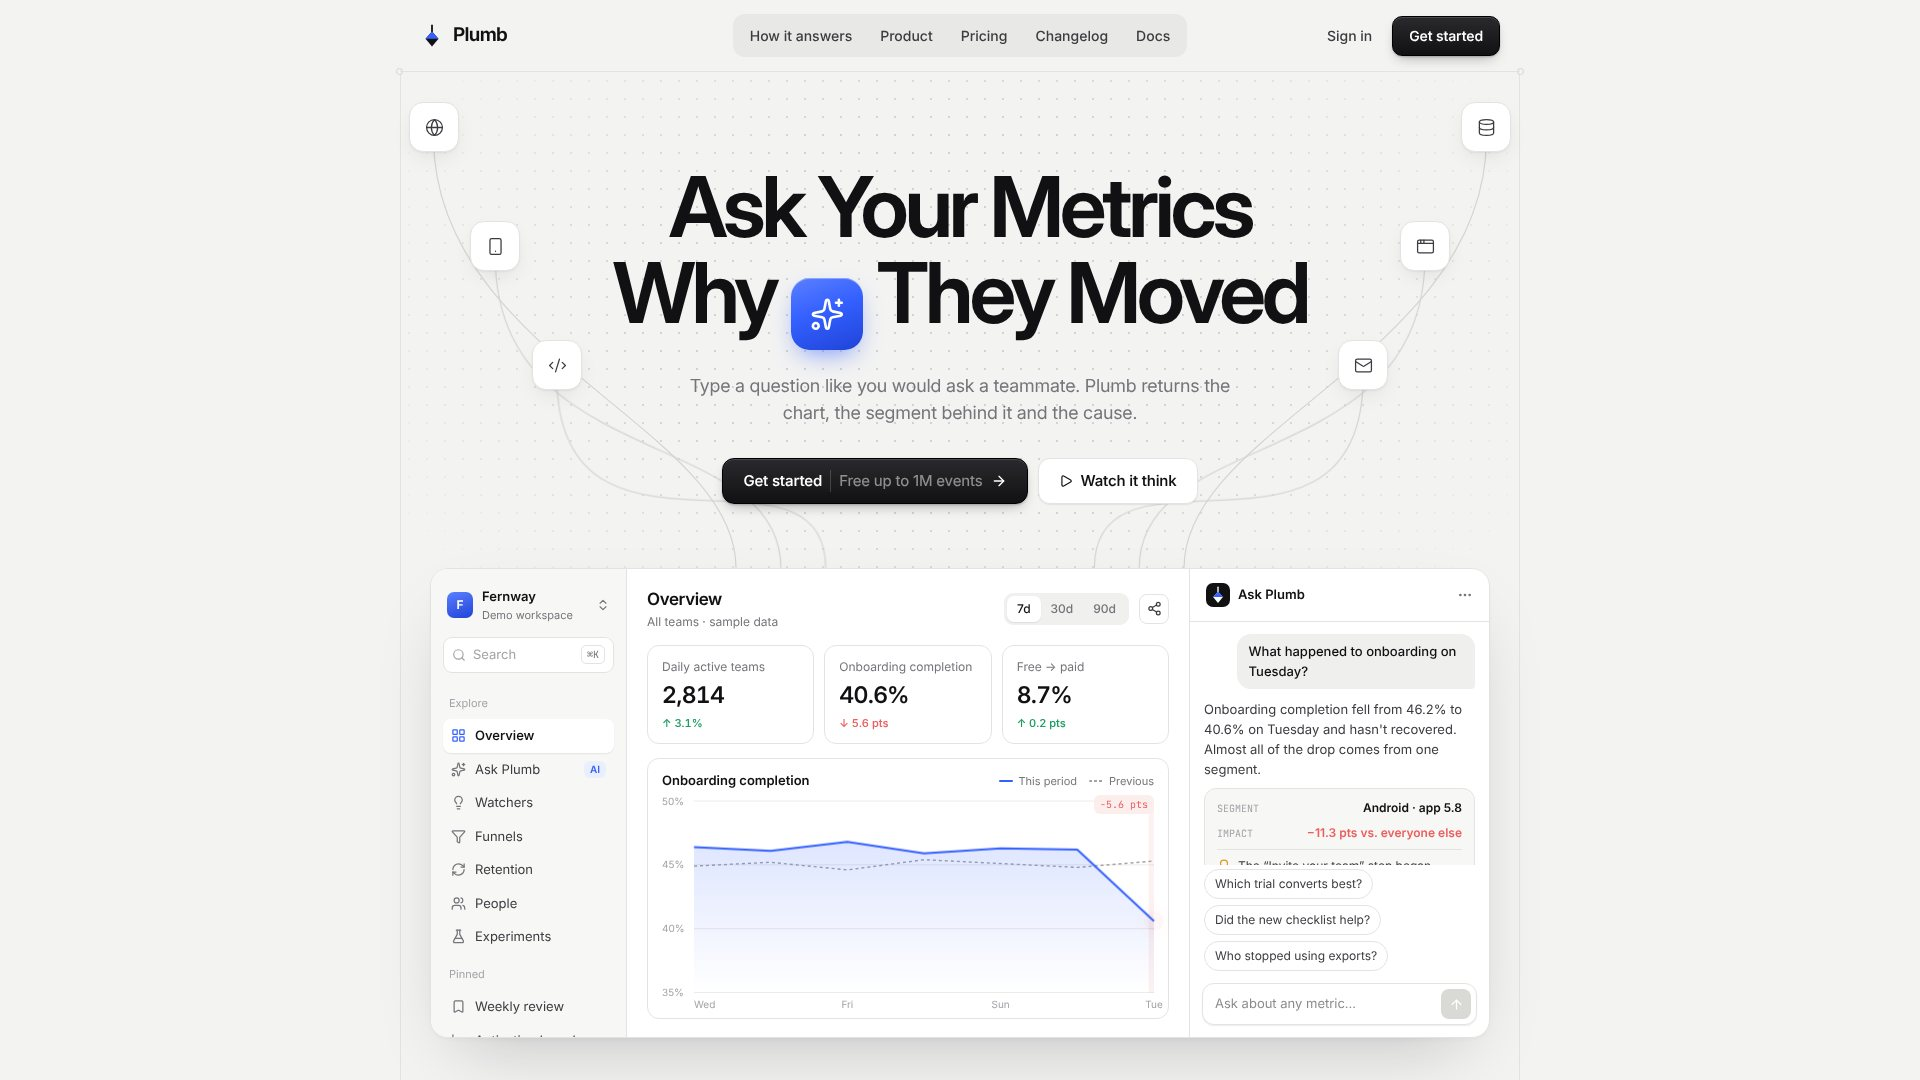
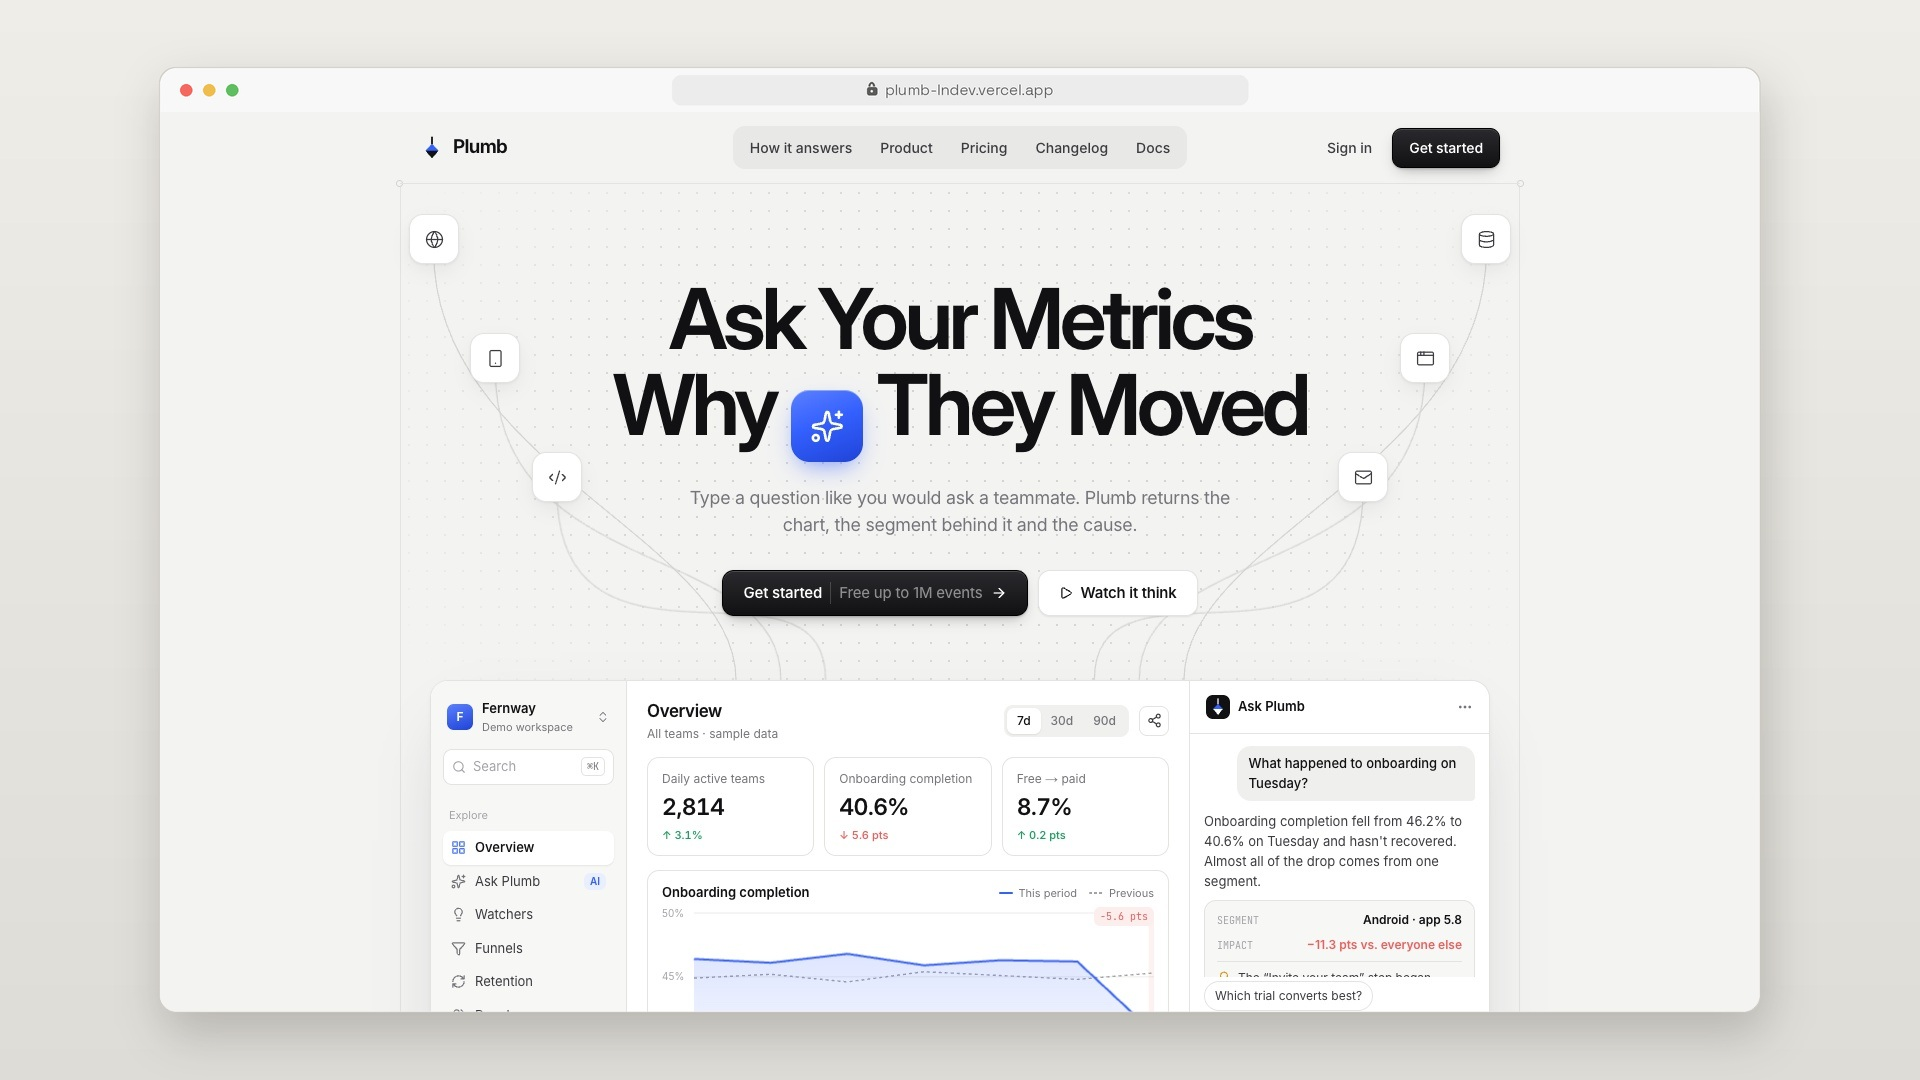
feat: finish Plumb and Redline showcase media

diff --git a/www/showcase/README.md b/www/showcase/README.md
@@ -1,0 +1,11 @@
+# Showcase media
+
+The collection previews are real browser captures. Plumb and Redline were captured on November 5, 2026 from production builds of source commit `5b091c3` (Node 24.20.0, Next.js webpack). The collection integration from `25ae3ee` is preserved.
+
+- Covers: `plumb.jpg`, `redline.jpg`, 1920 × 1080 JPEG, using the same rounded browser frame, public URL, shadow and neutral background as previous showcases.
+- Local videos: `videos/plumb-showcase-1920x1080.mp4` and `videos/redline-showcase-1920x1080.mp4`, 29 seconds, 1920 × 1080, 30 fps, H.264, no audio. Four seconds at the hero, 24 seconds of continuous scrolling, one second at the footer.
+- Preview/download locally through `videos/index.html`. Capture details and checksums are in `videos/manifest.json` and `videos/plumb-redline-verification.json`.
+
+The existing repository ignore rules intentionally keep the videos directory local. Only the presentation images and this provenance note are versioned.
+
+Both production builds and TypeScript compilation passed. Each video has 870 frames, reaches the footer, passes a full decode check, and contains no broken images or browser errors. Collection checks cover desktop/mobile, both new images, all 18 cards, the Editorial filter and the index/gallery toggle.
